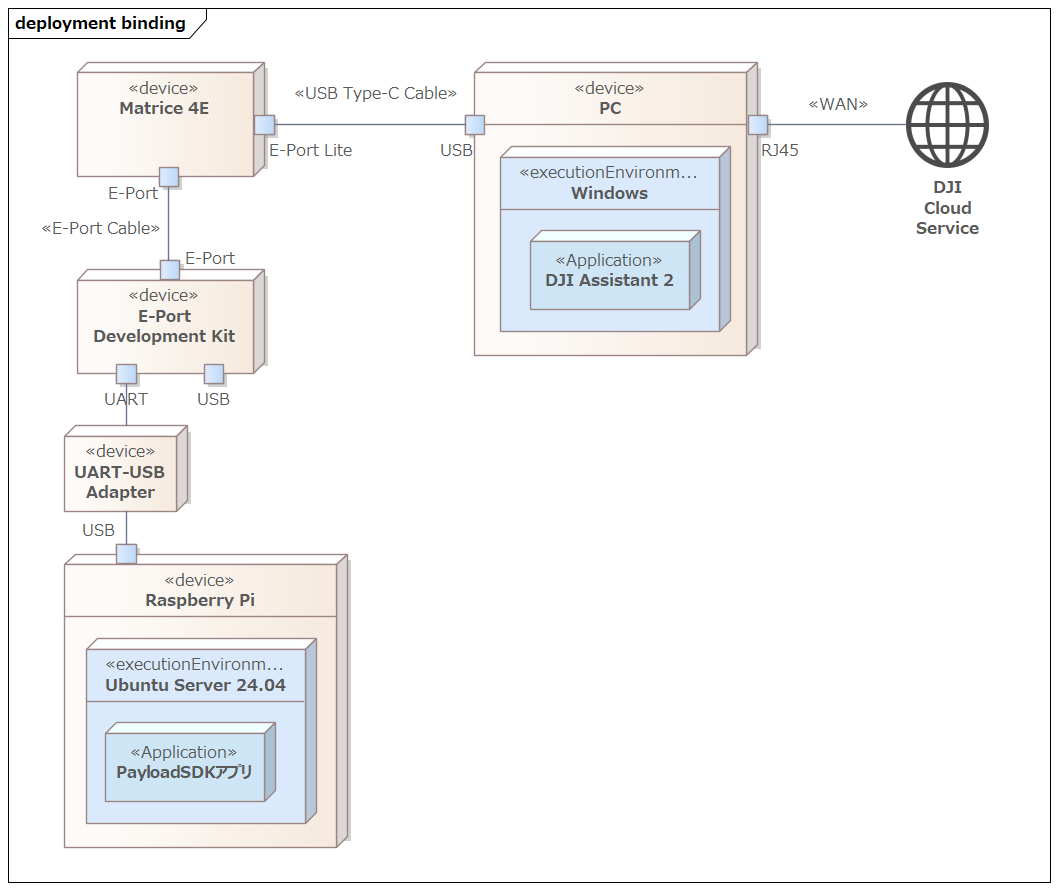
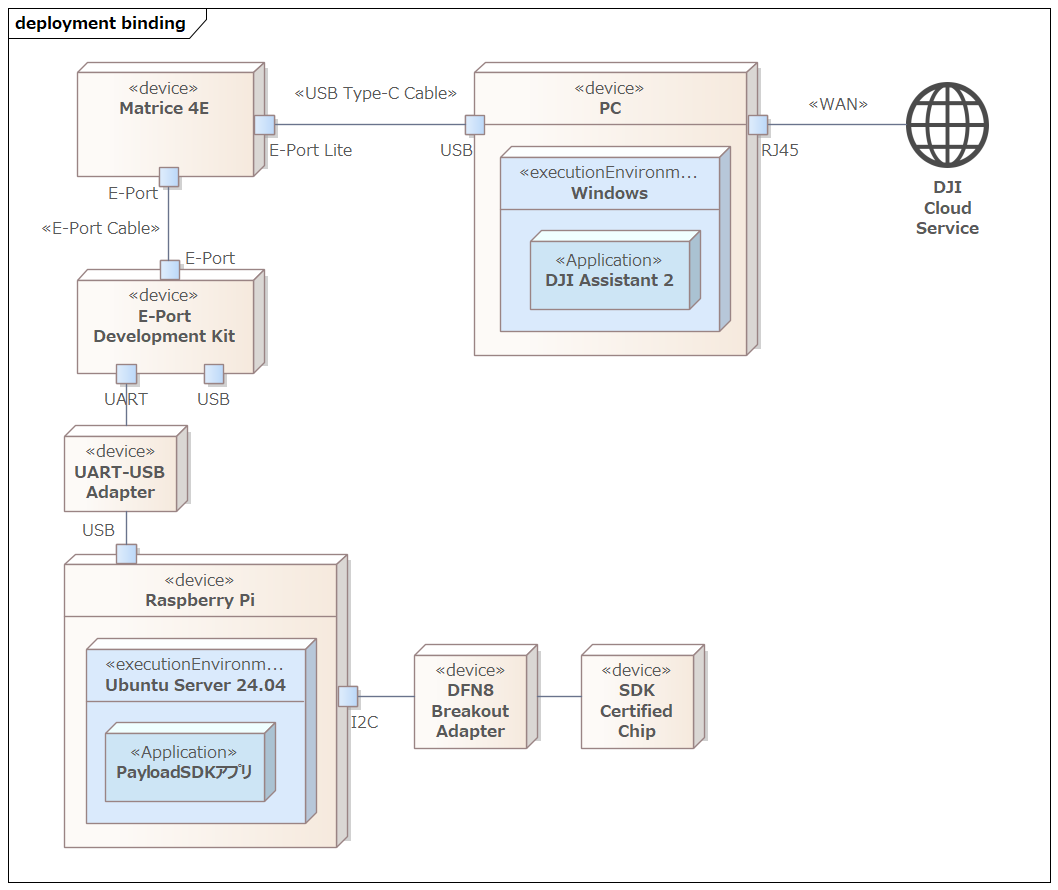
推敲

Changed region(s): [[0.3119, 0.7281, 0.6862, 0.8494]]

diff --git a/src/posts/robotics/solar-panel-clean-robot/dji-drone-psdk-application-binding.md b/src/posts/robotics/solar-panel-clean-robot/dji-drone-psdk-application-binding.md
@@ -244,7 +244,11 @@ Connect DJI SDK CC device failed, errno: 0x30000002
 ![機体とペイロードの接続構成](/img/robotics/solar-panel-clean-robot/dji-sdk-binding-hardware-structure.png)
 
 - [Matrice 4E](https://enterprise.dji.com/matrice-4-series)
-    - Application Binding が必要な機体
+    - Application Binding で使用する機体
+- PC
+    - [DJI Assistant 2](https://www.dji.com/downloads/softwares/assistant-dji-2-for-matrice) の動作環境
+    - DJI Assistant 2 は機体によってバリエーションがあり Matrice 4E の場合は Enterprise Series を使用する
+    - DJI Assistant 2 は DJI のクラウドサービスと通信するためインターネットに接続する必要がある
 - [E-Port Development Kit](https://store.dji.com/product/dji-e-port-development-kit)
     - 機体とペイロードデバイスを接続するためのアダプタボード
 - UART-USB Adapter
@@ -252,10 +256,9 @@ Connect DJI SDK CC device failed, errno: 0x30000002
     - Raspberry Pi のGPIO（UART ピン）へ直接接続する場合は不要
 - Raspberry Pi
     - Payload SDK アプリケーションの動作環境
-- PC
-    - [DJI Assistant 2](https://www.dji.com/downloads/softwares/assistant-dji-2-for-matrice) の動作環境
-    - DJI Assistant 2 は機体によってバリエーションがあり、Matrice 4Eの場合は Enterprise Series を使用する
-    - DJI Assistant 2 は DJI のクラウドサービスと通信するためインターネットに接続する必要がある
+- DFN8 Breakout Adapter
+    - DFN8（2×3 mm）パッケージの表面実装ICを DIP8 互換ピン配置に変換するためのブレークアウトアダプタ
+- SDK Certified Chip
 
 ### E-Port Development Kit
 
